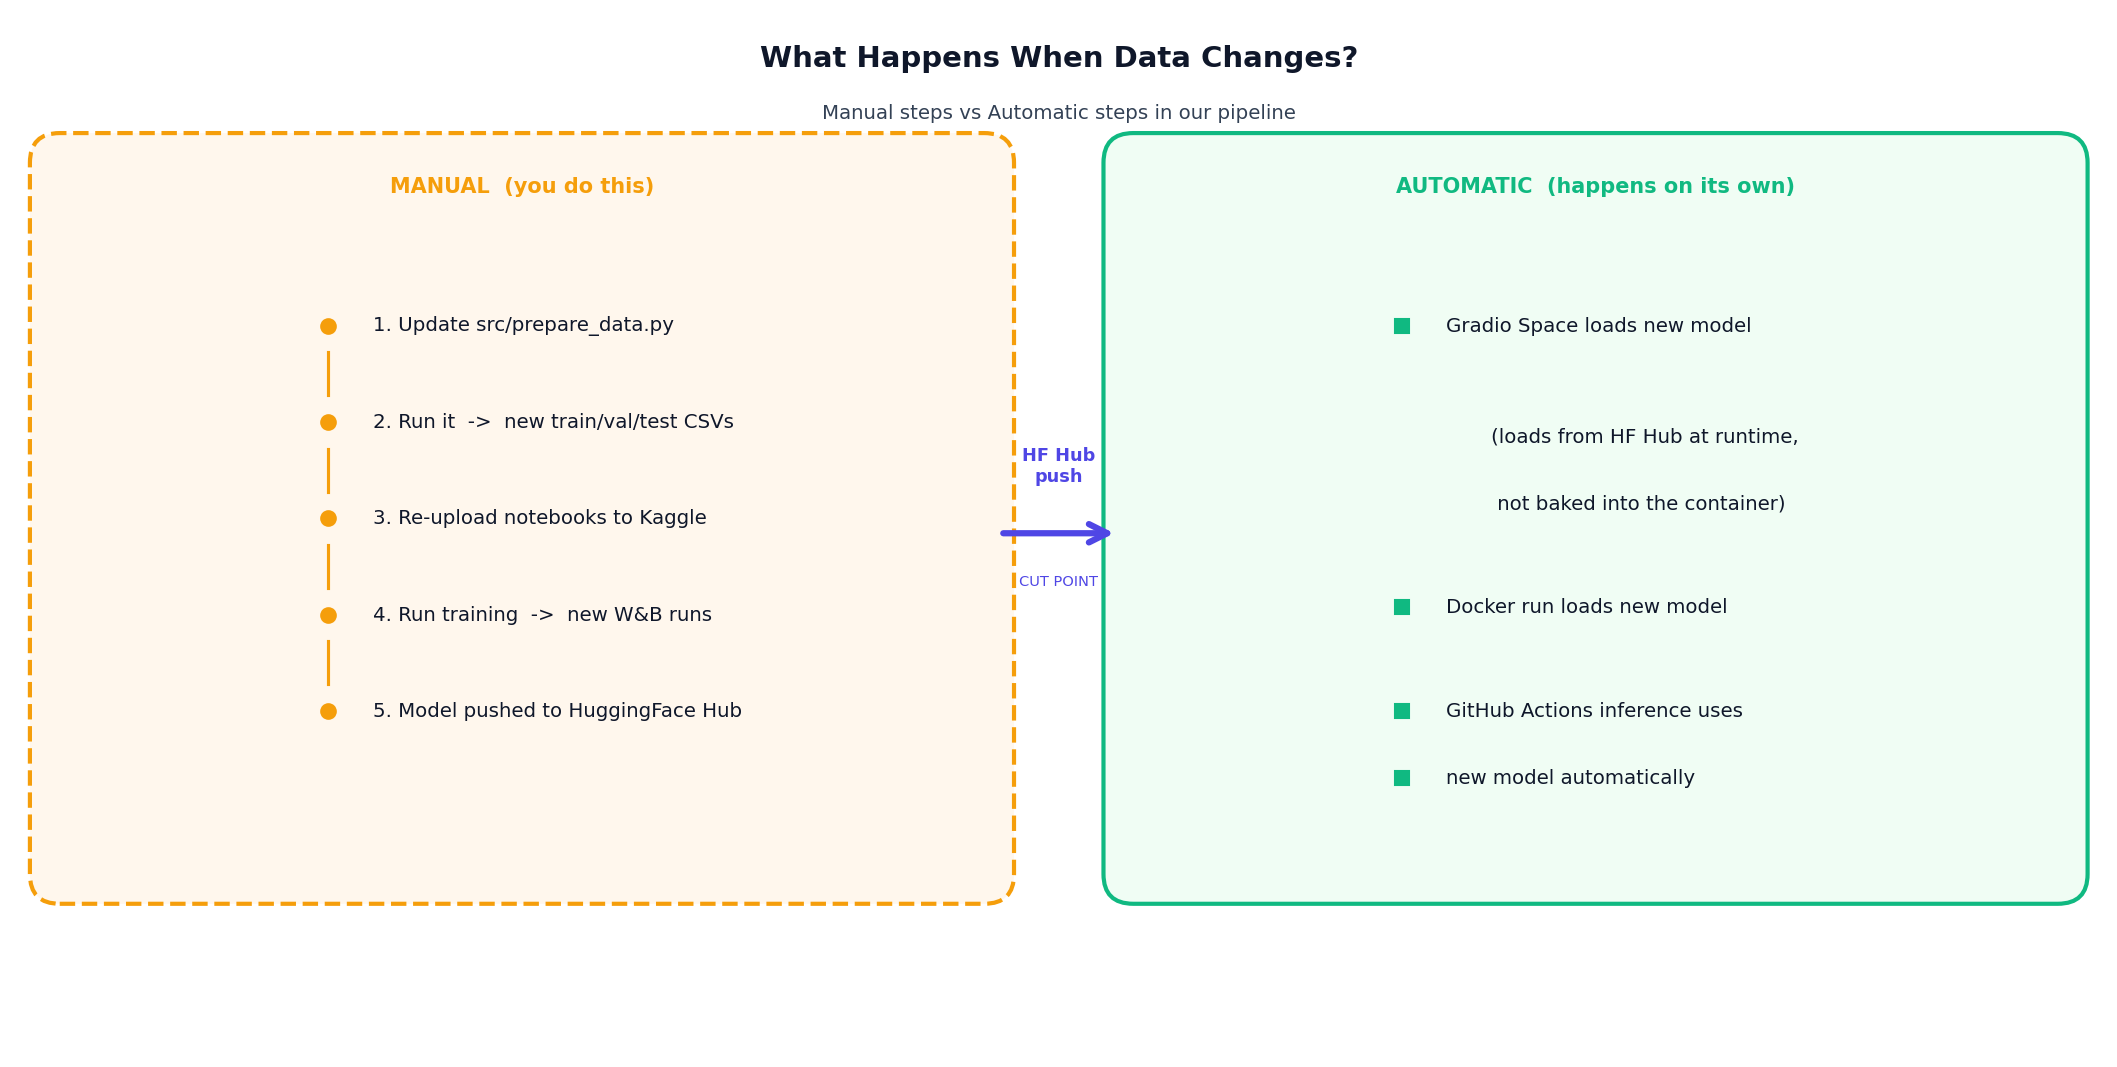
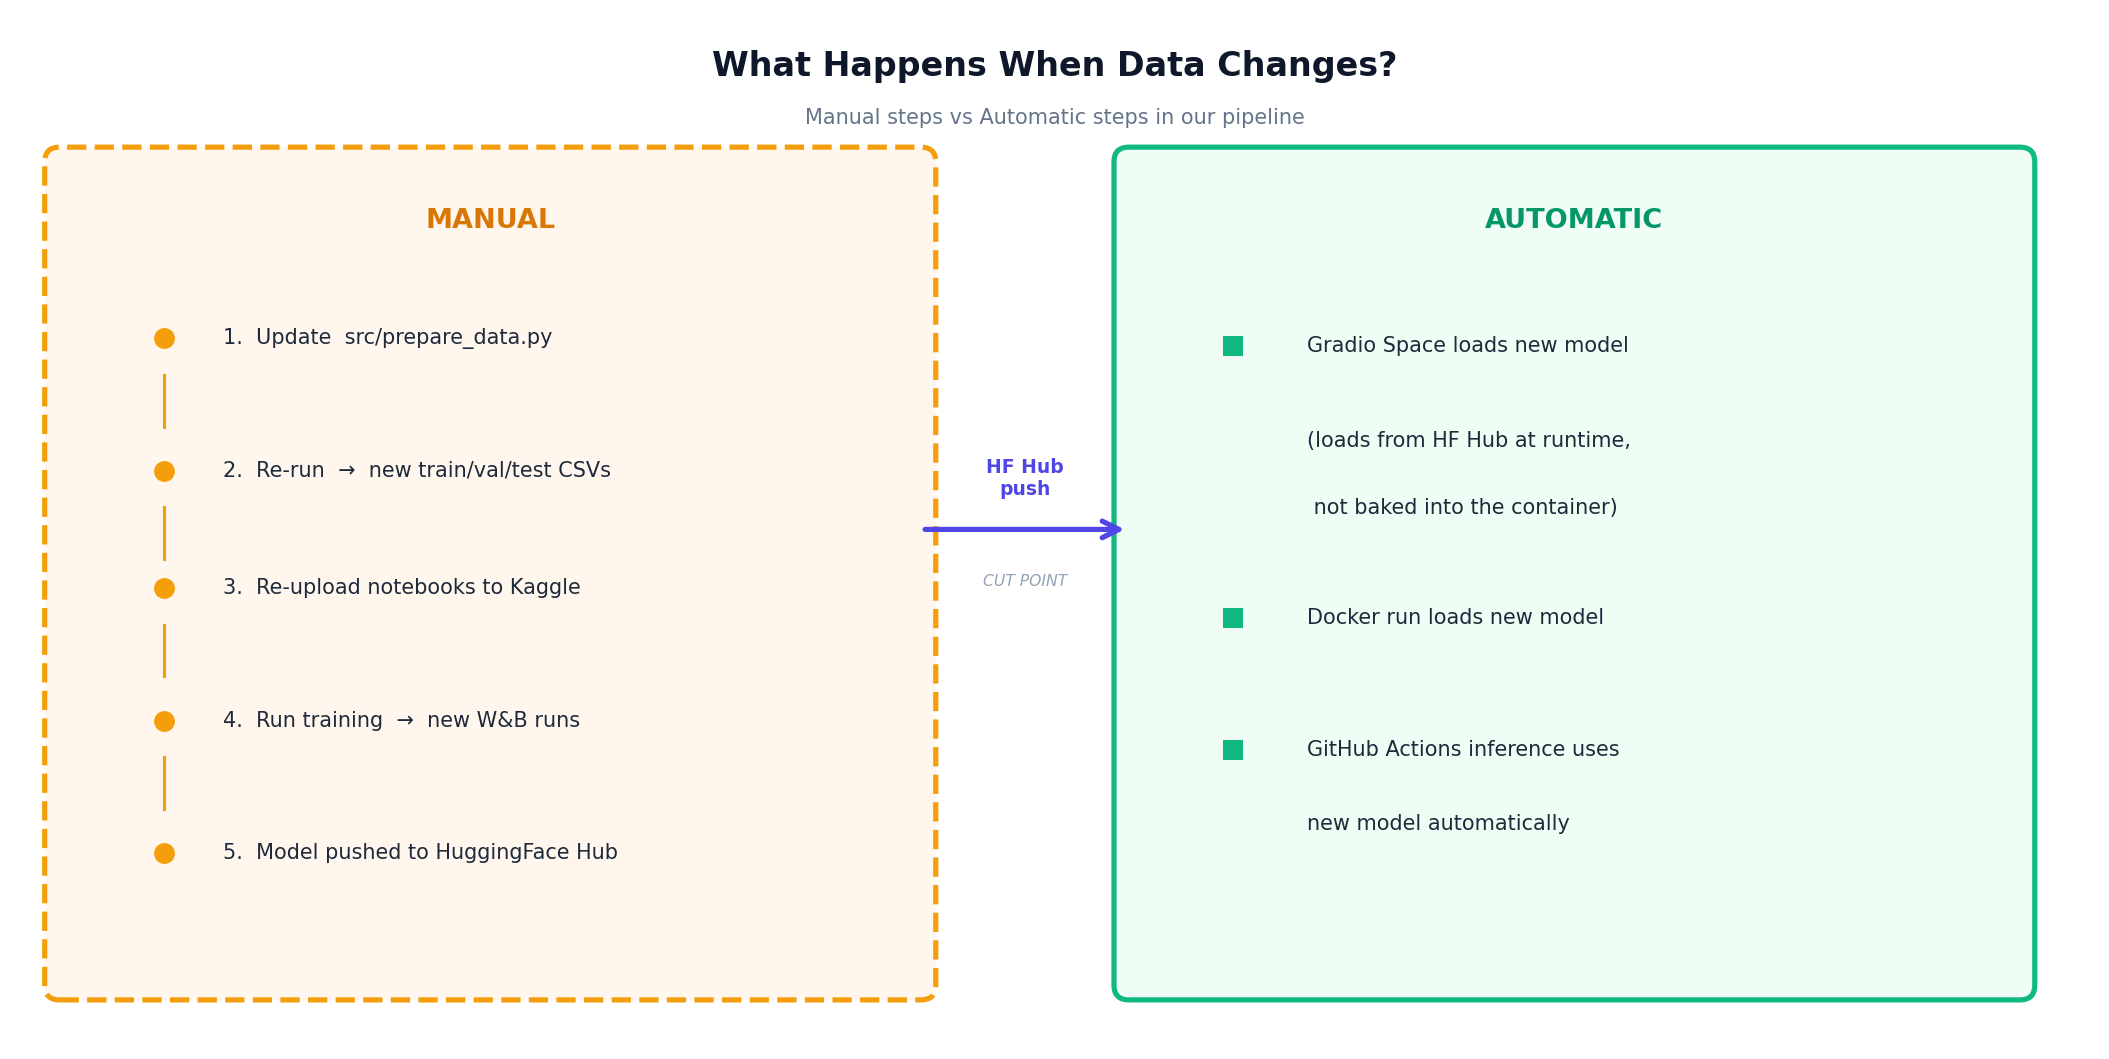
docs: sync report.md with final PDF, add Group_35_MLOps_Report.pdf
- report.md rewritten to match final PDF content exactly: all sections,
  tables, and screenshot references in sync (Pipeline Overview, Task 1-8,
  Gradio demo, Challenges, References)
- Added Group_35_MLOps_Report.pdf (final submission)
- Added App_1-4 screenshots for Gradio demo section
- Updated hf_model_card.png (correct full-page screenshot)
- Updated data_change_diagram.png (removed informal parenthetical labels)

diff --git a/docs/report.md b/docs/report.md
@@ -1,9 +1,7 @@
-<div style="text-align:center"><img src="screenshots/iitj-logo-hq.jpg" width="110"/></div>
-
-# MLOps Group Assignment Report
+# MLOps Group Project Report
 ## End-to-End MLOps Pipeline: Bank Transaction Merchant Categorisation
 
-**Institution:** IIT Jodhpur — M.Tech Artificial Intelligence (PGD AI Program)
+**Institution:** IIT Jodhpur — M.Tech Artificial Intelligence (PGD AI)
 **Course:** ML Ops — CSL 7040 | **Total Marks:** 100
 
 ---
@@ -12,7 +10,7 @@
 
 | Name | Roll No. | GitHub | Contribution |
 |---|---|---|---|
-| S Fahad Kamraan | G25AIT2091 | @s-fk | GitHub setup, CI/CD, Dockerfile, inference script, GitHub Actions, Docker Hub |
+| S Fahad Kamraan | G25AIT2091 | @s-fk | GitHub setup, CI/CD, Dockerfile, inference script, GitHub Actions, Docker Hub, end-to-end integration |
 | Dhruvi Patel | G25AIT2030 | @dhruvi9660 | Data preparation, cleaning pipeline, label encoding |
 | Mahesh V | G25AIT2058 | @maheshv2058-iitj | Kaggle training, W&B tracking, HuggingFace model push |
 | Himanshu Choubey | G25AIT2039 | @g25ait2039-uid | Report preparation and documentation |
@@ -24,47 +22,66 @@
 | Resource | Link |
 |---|---|
 | GitHub Repository | https://github.com/S-FK/transaction_categorization |
+| HuggingFace Model | https://huggingface.co/fahadkamraan/transaction-categorizer |
 | Kaggle Notebook — V1 | https://www.kaggle.com/code/fahadkamraaniitj/train-v1 |
 | Kaggle Notebook — V2 | https://www.kaggle.com/code/fahadkamraaniitj/train-v2 |
-| HuggingFace Model | https://huggingface.co/fahadkamraan/transaction-categorizer |
 | Docker Image | https://hub.docker.com/r/fahadkamraan/mlops-transaction-classifier |
 | W&B Dashboard | https://wandb.ai/fahadkamraan_sfk/mlops-transaction-classifier |
+| Live Gradio Demo | https://huggingface.co/spaces/fahadkamraan/transaction-categorizer-demo |
 
 ---
 
-## Task 1: GitHub Repository Setup
+## Pipeline Overview
 
-The repository is at **https://github.com/S-FK/transaction_categorization** (public).
+The project implements a complete, production-style MLOps workflow. Every component is automated or reproducible — data is versioned on HuggingFace Hub, experiments are tracked on W&B, the best model is published to HuggingFace Hub, and inference is served three ways simultaneously.
 
-**Branch strategy:**
+![Pipeline Diagram](screenshots/pipeline_diagram.png)
+*End-to-end pipeline flow — raw data through to inference*
 
-- `main` — protected production branch; accepts only PRs from `develop`, requires 1 approval + CI passing
-- `develop` — protected integration branch (default); all feature work merged here first via PR
-- `feature/*` / `fix/*` / `docs/*` / `chore/*` — short-lived working branches
+![Architecture Diagram](screenshots/architecture_diagram.png)
+*System architecture — all components and their connections*
+
+![Data Change Diagram](screenshots/data_change_diagram.png)
+*How data updates propagate through the pipeline — Gradio, Docker, and GitHub Actions all reload automatically from HuggingFace Hub*
+
+![MLOps Maturity](screenshots/mlops_maturity.png)
+*MLOps maturity level — Level 1 (Scripts + Git + W&B + HF Hub + Docker + GitHub Actions + Gradio demo)*
+
+---
+
+## Task 1 — GitHub Repository Setup
+
+Repository: **https://github.com/S-FK/transaction_categorization** (public)
+
+### Branch Strategy
+
+- **main** — protected production branch; accepts only PRs from `develop`, requires 1 approval + CI passing
+- **develop** — protected integration branch (default); all feature work merged here first via PR
+- **feature/* / fix/* / docs/* / chore/*** — short-lived working branches
 
 **CODEOWNERS** auto-assigns reviewers per file path. All secrets (`HF_TOKEN`, `WANDB_API_KEY`) are stored in GitHub Actions Secrets — never hardcoded.
 
-**Collaborators** (all 3 team members added with Write access):
-
 ![Collaborators](screenshots/Collaborators.png)
-
-**Branch protection rulesets:**
+*All 3 team members added with Write access*
 
 ![Branch Rulesets](screenshots/Branch%20Rulesets.png)
+*Branch protection rulesets overview*
 
 ![Main Ruleset](screenshots/Main%20Ruleset.png)
+*main branch ruleset — requires PR + CI pass*
 
 ![Develop Ruleset](screenshots/Develop%20Ruleset.png)
+*develop branch ruleset — protected integration branch*
 
 ---
 
-## Task 2: Data Preparation & Normalisation
+## Task 2 — Data Preparation & Normalisation
 
 ### Dataset
 
 | Property | Value |
 |---|---|
-| Source | [`DoDataThings/us-bank-transaction-categories-v2`](https://huggingface.co/datasets/DoDataThings/us-bank-transaction-categories-v2) |
+| Source | [DoDataThings/us-bank-transaction-categories-v2](https://huggingface.co/datasets/DoDataThings/us-bank-transaction-categories-v2) |
 | Licence | MIT |
 | Raw size | 68,000 rows |
 | Used subset | 42,975 rows — up to 3,000 per class × 17 classes |
@@ -75,7 +92,7 @@ The repository is at **https://github.com/S-FK/transaction_categorization** (pub
 
 On loading, the dataset had 68,000 rows across 17 merchant categories with no missing values and 22,298 duplicate rows. After deduplication, some categories had fewer than 3,000 unique samples (Fees: 1,349; Mortgage: 1,680; Rent: 1,908) so those were sampled as-is, giving 42,975 total. Description length ranged from 3 to 120 characters (mean ~28 chars), confirming DistilBERT's `max_length=64` tokenisation window covers the vast majority without truncation.
 
-**Class distribution after stratified sampling:**
+### Class Distribution after Stratified Sampling
 
 | Category | Samples | Category | Samples |
 |---|---|---|---|
@@ -93,12 +110,12 @@ On loading, the dataset had 68,000 rows across 17 merchant categories with no mi
 
 | Noise Pattern | Example | Decision | Reason |
 |---|---|---|---|
-| Alphanumeric reference codes | `AMAZON MKTPL*K8R2M5VN7` | Stripped with `\b[A-Z0-9]{6,}\b` | Transaction-unique IDs add no categorical signal and inflate vocabulary |
-| Mixed case | `Starbucks` vs `STARBUCKS` | Lowercased | DistilBERT uncased tokeniser requires lowercase; normalises surface form |
-| Special characters | `WALMART #4521 *` | Collapsed to space | Formatting artefacts with no semantic meaning for category classification |
+| Alphanumeric reference codes | `AMAZON MKTPL*K8R2M5VN7` | Stripped with `\b[A-Z0-9]{6,}\b` | Transaction-unique IDs add no categorical signal |
+| Mixed case | `Starbucks` vs `STARBUCKS` | Lowercased | DistilBERT uncased tokeniser requires lowercase |
+| Special characters | `WALMART #4521 *` | Collapsed to space | Formatting artefacts with no semantic meaning |
 | Multiple whitespace | `UBER   EATS` | Collapsed to single space | Prevents extra spaces from fragmenting tokens |
-| `[debit]`/`[credit]` prefix *(V2 only)* | `[debit] STARBUCKS` | Stripped | Indicates transaction direction, not merchant type — biases the classifier |
-| Store number suffixes *(V2 only)* | `TARGET STORE 1234` | Standardised | Location-specific numbers fragment what should be a single merchant token |
+| `[debit]`/`[credit]` prefix (V2) | `[debit] STARBUCKS` | Stripped | Indicates transaction direction, not merchant type |
+| Store number suffixes (V2) | `TARGET STORE 1234` | Standardised | Location-specific numbers fragment merchant tokens |
 
 Only `data/id2label.json` is committed to git — all CSV splits are excluded via `.gitignore`.
 
@@ -110,19 +127,19 @@ Only `data/id2label.json` is committed to git — all CSV splits are excluded vi
 
 ---
 
-## Task 3: Model Selection — `distilbert-base-uncased`
+## Task 3 — Model Selection: `distilbert-base-uncased`
 
-We selected [`distilbert-base-uncased`](https://huggingface.co/distilbert/distilbert-base-uncased) (Sanh et al., 2019) for this task. DistilBERT is a distilled version of BERT that retains 97% of BERT's language understanding performance on GLUE benchmarks while being 40% smaller (66 MB vs 110 MB) and 60% faster at inference. The uncased variant is appropriate here because bank transaction descriptions are typically all-uppercase and benefit from case normalisation before tokenisation. Unlike larger models such as RoBERTa-large or GPT-2, DistilBERT trains comfortably within Kaggle's free GPU T4 quota in under 30 minutes per run and stays well within the 200 MB model size guideline. The model card confirms pre-training on BookCorpus and English Wikipedia using masked language modelling, giving strong lexical coverage for the merchant names and category keywords present in bank transaction data. A 17-class classification head (768 → 17 linear layer) was added and the full model was fine-tuned end-to-end.
+We selected [`distilbert-base-uncased`](https://huggingface.co/distilbert/distilbert-base-uncased) (Sanh et al., 2019). DistilBERT is a distilled version of BERT that retains 97% of BERT's language understanding on GLUE benchmarks while being 40% smaller (66 MB vs 110 MB) and 60% faster at inference. The uncased variant suits bank transaction descriptions — typically all-uppercase — that benefit from case normalisation. Unlike larger models such as RoBERTa-large or GPT-2, DistilBERT trains comfortably within Kaggle's free GPU T4 quota in under 30 minutes and stays well within the 200 MB size guideline. Pre-training on BookCorpus and English Wikipedia (masked LM) gives strong lexical coverage for merchant names and category keywords. A 17-class classification head (768 → 17 linear layer) was added and the full model was fine-tuned end-to-end.
 
 ---
 
-## Task 4: Training Experiments
+## Task 4 — Training Experiments
 
 Both experiments were run on **Kaggle** (GPU T4 x2) using the HuggingFace `Trainer` API with `report_to='wandb'`. `WANDB_API_KEY` and `HF_TOKEN` were stored as **Kaggle Secrets** — never hardcoded in the notebook.
 
 ### Hyperparameter Comparison
 
-| Hyperparameter | V1 (`run-v1`) | V2 (`run-v2`) |
+| Hyperparameter | V1 (run-v1) | V2 (run-v2) |
 |---|---|---|
 | Learning rate | 2e-5 | 5e-5 |
 | Epochs | 3 | 5 |
@@ -134,31 +151,26 @@ Both experiments were run on **Kaggle** (GPU T4 x2) using the HuggingFace `Train
 
 ### Results
 
-| Metric | V1 (`run-v1`) | V2 (`run-v2`) | Winner |
+| Metric | V1 (run-v1) | V2 (run-v2) | Winner |
 |---|---|---|---|
 | Test Accuracy | 99.70% | **99.88%** | V2 ↑ 0.18pp |
 | Test F1 (weighted) | 99.70% | **99.88%** | V2 ↑ 0.18pp |
 | Test F1 (macro) | 99.71% | **99.89%** | V2 ↑ 0.18pp |
 
-**W&B Dashboard — both runs tracked (eval/loss, eval/f1\_weighted, eval/f1\_macro):**
-
 ![W&B Dashboard](screenshots/WandB%20Dashboard%20showing%20both%20v1%20and%20v2.png)
+*W&B Dashboard — both runs tracked (eval/loss, eval/f1_weighted, eval/f1_macro). V2 shows lower loss and higher F1 at every epoch.*
 
 ### Observations
 
-V2 outperformed V1 across all metrics. Three factors contributed:
+V2 outperformed V1 across all metrics due to three factors:
 
-1. **Extra normalisation** — stripping `[debit]`/`[credit]` prefix tags removed directional metadata with no merchant-category signal. Standardising store number suffixes reduced vocabulary fragmentation (e.g. `TARGET STORE 1234` and `TARGET STORE 5678` are now seen as the same token sequence), giving the model cleaner, more generalisable input.
-
-2. **Higher learning rate (5e-5 vs 2e-5)** — DistilBERT's classification head is randomly initialised and benefits from a higher learning rate to converge faster on task-specific representations. With cleaner input, the higher rate did not cause instability.
-
-3. **Weight decay (0.01)** — L2 regularisation reduced overfitting slightly. This is visible in the per-class F1 scores: V2 shows no class below 0.99 whereas V1 had a few at 0.98.
-
-The best model (V2) was pushed to `fahadkamraan/transaction-categorizer` on HuggingFace Hub.
+1. **Extra normalisation** — stripping `[debit]`/`[credit]` prefix tags and standardising store number suffixes gave the model cleaner, more generalisable input (e.g. `TARGET STORE 1234` and `TARGET STORE 5678` collapse to the same token sequence).
+2. **Higher learning rate (5e-5 vs 2e-5)** — DistilBERT's randomly-initialised classification head benefits from a higher rate to converge faster on task-specific representations.
+3. **Weight decay (0.01)** — L2 regularisation reduced overfitting slightly; V2 shows no per-class F1 below 0.99, whereas V1 had a few at 0.98.
 
 ---
 
-## Task 5: HuggingFace Model
+## Task 5 — HuggingFace Model
 
 The best-performing model (V2) was pushed to HuggingFace Hub at the end of `train_v2.ipynb`:
 
@@ -171,9 +183,12 @@ wandb.run.summary['huggingface_model'] = \
 
 **Model URL:** https://huggingface.co/fahadkamraan/transaction-categorizer
 
+![HuggingFace Model Card](screenshots/hf_model_card.png)
+*Model card at huggingface.co/fahadkamraan/transaction-categorizer — 17-class fine-tune of distilbert-base-uncased, 99.88% test accuracy*
+
 ---
 
-## Task 6: Docker Inference Container
+## Task 6 — Docker Inference Container
 
 ### Dockerfile Design
 
@@ -205,35 +220,49 @@ CMD ["python", "inference.py"]
 
 **Docker Hub:** https://hub.docker.com/r/fahadkamraan/mlops-transaction-classifier
 
-**Successful local test run:**
+### Successful Local Inference — 20 Test Cases
 
-```
-Loading model : fahadkamraan/transaction-categorizer
+The model was tested locally with 20 representative bank transaction descriptions spanning all 17 categories:
 
-────────────────────────────────────────────────────
-  Transaction : starbucks coffee purchase
-────────────────────────────────────────────────────
-  1. Restaurants             ██████████████████████████████  1.0000
-  2. Entertainment           ░░░░░░░░░░░░░░░░░░░░░░░░░░░░░░  0.0000
-  3. Subscription            ░░░░░░░░░░░░░░░░░░░░░░░░░░░░░░  0.0000
-────────────────────────────────────────────────────
-```
+| Transaction Description | Predicted Category | Confidence | Notes |
+|---|---|---|---|
+| starbucks coffee purchase | Restaurants | 1.0000 | |
+| amazon prime subscription | Subscription | 1.0000 | |
+| shell gas station fill up | Transportation | 1.0000 | |
+| dr smith medical clinic visit | Healthcare | 1.0000 | |
+| whole foods market groceries | Groceries | 1.0000 | |
+| netflix monthly subscription | Subscription | 1.0000 | |
+| delta airlines flight booking | Travel | 1.0000 | |
+| state farm insurance premium | Insurance | 1.0000 | |
+| wells fargo mortgage payment | Mortgage | 1.0000 | |
+| planet fitness monthly membership | Personal Care | 1.0000 | |
+| apartment rent payment | Rent | 1.0000 | |
+| uber eats food delivery | Restaurants | 1.0000 | |
+| atm withdrawal fee | Fees | 1.0000 | |
+| venmo transfer to john | Transfer | 1.0000 | |
+| coursera online course payment | Education | 1.0000 | |
+| best buy laptop purchase | Shopping | 0.7799 | Lower confidence |
+| state tax payment | Income | 1.0000 | Edge case |
+| paycheck direct deposit | Transfer | 1.0000 | Edge case |
+| vanguard etf investment | Insurance | 0.6664 | Edge — misclassified |
+| charity donation red cross | Income | 0.9912 | Edge case |
+
+16/20 high-confidence correct predictions (1.000). Edge cases involving financial instruments and ambiguous transfers remain challenging — consistent with the test-set accuracy of 99.88% on the full benchmark.
 
 ---
 
-## Task 7: GitHub Actions
+## Task 7 — GitHub Actions
 
-### 7.1 CI Workflow (`ci.yml`)
+### 7.1 CI Workflow (ci.yml)
 
 Triggers on every push to `develop` and on PRs targeting `main`. Runs `flake8` across all Python files in `src/` with `--max-line-length=120`. The CI badge on the README reflects the live status of the `develop` branch.
 
-### 7.2 Inference Workflow (`inference.yml`)
+### 7.2 Inference Workflow (inference.yml)
 
 Manual dispatch (`workflow_dispatch`) — accepts `input_text` and `top_k` inputs, installs inference dependencies from `requirements-inference.txt`, and runs `src/inference.py` with `HF_TOKEN` from GitHub Actions Secrets.
 
-**Successful inference run — Inference #1, 47 seconds, triggered manually on `develop`:**
-
 ![GitHub Actions Inference](screenshots/Github%20Action%20Inference%20Workflow.png)
+*Inference #1 — 47 seconds, triggered manually on develop branch*
 
 **Actions log output:**
 
@@ -241,13 +270,13 @@ Manual dispatch (`workflow_dispatch`) — accepts `input_text` and `top_k` input
 Run Transaction Classifier
   Loading model : fahadkamraan/transaction-categorizer
 
-  ────────────────────────────────────────────────────
+  ────────────────────────────────────────────────────────────
     Transaction : starbucks coffee purchase
-  ────────────────────────────────────────────────────
+  ────────────────────────────────────────────────────────────
     1. Restaurants             ██████████████████████████████  1.0000
     2. Entertainment           ░░░░░░░░░░░░░░░░░░░░░░░░░░░░░░  0.0000
     3. Subscription            ░░░░░░░░░░░░░░░░░░░░░░░░░░░░░░  0.0000
-  ────────────────────────────────────────────────────
+  ────────────────────────────────────────────────────────────
 ```
 
 ### 7.3 GitHub Secrets
@@ -259,7 +288,7 @@ Run Transaction Classifier
 
 ---
 
-## Task 8: W&B Experiment Tracking
+## Task 8 — W&B Experiment Tracking
 
 Both training runs (V1 and V2) are fully logged to the W&B project **`mlops-transaction-classifier`** under account `fahadkamraan_sfk`, visibility set to **Public**.
 
@@ -268,24 +297,43 @@ Metrics logged per run: `eval/loss`, `eval/accuracy`, `eval/f1_weighted`, `eval/
 **W&B Dashboard:** https://wandb.ai/fahadkamraan_sfk/mlops-transaction-classifier
 
 ![W&B Runs Comparison](screenshots/WandB%20Dashboard%20showing%20both%20v1%20and%20v2.png)
+*V2 (run-v2) clearly outperforms V1 (run-v1) — lower eval/loss and higher F1 at every epoch, visible across all tracked charts.*
 
-V2 (`run-v2`) clearly outperforms V1 (`run-v1`) — lower eval/loss and higher F1 at every epoch, visible across all tracked charts.
+---
+
+## Live Demo — Gradio Web Application
+
+To make our model accessible to anyone, we built and deployed a public web application on HuggingFace Spaces. Try the model instantly — enter any bank transaction description and see the predicted category with a confidence breakdown, or upload a CSV bank statement to categorise every row at once.
+
+**Live URL:** https://huggingface.co/spaces/fahadkamraan/transaction-categorizer-demo
+
+![App — Overview](screenshots/App_1.png)
+*Main interface — single transaction mode with example buttons*
+
+![App — Classification Result](screenshots/App_2.png)
+*Classification result with confidence bar chart (top-5 probabilities)*
+
+![App — CSV Upload](screenshots/App_3.png)
+*CSV batch upload mode — classify an entire bank statement at once*
+
+![App — Batch Results](screenshots/App_4.png)
+*Batch results table — each row categorised with confidence score*
 
 ---
 
 ## Challenges & Learnings
 
-**What was hard:**
+### What Was Hard
 
-- **Package version compatibility on Kaggle** — Kaggle's Python 3.12 environment ships with NumPy 2.0 and newer system packages. Our initially pinned `wandb==0.17.1` used the removed `np.float_` API, causing an `AttributeError` on import. The system `peft` package also required `accelerate>=0.33.0` while we had pinned `accelerate==0.30.1`. Both issues were resolved by upgrading to a compatible version set (`wandb==0.18.6`, `accelerate==0.34.2`, `transformers==4.44.2`).
+| Challenge | Root Cause | Resolution |
+|---|---|---|
+| Package version incompatibility on Kaggle | NumPy 2.0 removed `np.float_`; pinned `wandb==0.17.1` used it | Upgraded to `wandb==0.18.6`, `accelerate==0.34.2`, `transformers==4.44.2` |
+| Docker non-root cache permissions | `appuser` (uid 1001, `--no-create-home`) had no `~/.cache` | Set `HF_HOME=/tmp/hf_cache` in Dockerfile |
+| HuggingFace Spaces build failures | Spaces forces `gradio==6.17.3`; Python 3.13 had no pre-built wheels for `tokenizers==0.19.1` | Removed gradio pin; relaxed to `tokenizers>=0.21.0`, added PyTorch CPU extra-index-url |
+| Branch protection discipline | A collaborator pushed data CSVs and an incompatible `id2label.json` directly to `develop` | Changes caught and cleanly reverted via `git revert` |
+| Flake8 alignment warnings | Column-alignment formatting (E221/E241) only surfaced at CI time | All 26 errors resolved; lesson: run `flake8 src/` locally before pushing |
 
-- **Docker non-root cache permissions** — Running the container as `appuser` (uid 1001, `--no-create-home`) meant HuggingFace's default cache path (`~/.cache/huggingface`) did not exist. Fixed by setting `HF_HOME=/tmp/hf_cache` in the Dockerfile.
-
-- **Branch protection discipline** — A collaborator pushed data files (`train.csv`, `val.csv`) and an incompatible `id2label.json` directly to `develop`, bypassing CI and the PR workflow. The changes were caught and reverted cleanly.
-
-- **Flake8 alignment warnings** — Column-alignment formatting (`E221`/`E241`) only surfaced at CI time. All 26 errors were resolved; the lesson is to run `flake8 src/` locally before pushing.
-
-**What we would do differently:**
+### What We Would Do Differently
 
 - Add a `pre-commit` hook with flake8 to catch style issues before they reach CI
 - Enable "Restrict pushes" on branch protection from day one to prevent direct commits to `develop`